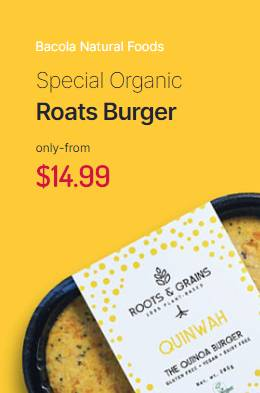
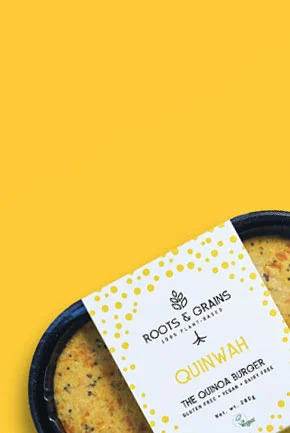
update

diff --git a/src/Pages/Home/index.js b/src/Pages/Home/index.js
@@ -30,11 +30,24 @@ const Home = ()=>{
                 <div className="container">
                     <div className="row">
                         <div className="col-md-3">
-                            <div className="banner">
-                                <img src={banner1} alt="E-commerce Banner" className="cursor w-100 " />
+                            <div className="banner position-relative">
+                                <img src={banner1} alt="E-commerce Banner" className="cursor w-100" />
+                                <div className="bannerOverlayText banner1Text p-3">
+                                    <p className="smallTitle">Bacola Natural Foods</p>
+                                    <h5 className="mainTitle">Special Organic <br /><strong>Roats Burger</strong></h5>
+                                    <p className="subText">only-from</p>
+                                    <p className="priceText">$14.99</p>
+                                </div>
                             </div>
-                            <div className="banner mt-3">
-                                <img src={banner2} alt="E-commerce Banner" className="cursor w-100 " />
+                            <div className="banner mt-3 position-relative">
+                                <img src={banner2} alt="E-commerce Banner" className="cursor w-100" />
+                                <div className="bannerOverlayText p-3">
+                                    <p className="smallTitle">Best Bakery Products</p>
+                                    <h5 className="mainTitle">Freshest Products <br /><strong>every hour.</strong></h5>
+                                    <p className="subText">only-from</p>
+                                    <p className="priceText">$24.99</p>
+                                    <button className="shopNowBtn">Shop Now →</button>
+                                </div>
                             </div>
                         </div>
                         <div className="col-md-9 productRow">

diff --git a/src/App.css b/src/App.css
@@ -406,6 +406,104 @@ nav .navPart2 ul li:hover .submenu{
   color: #212121;
   max-width: 40%;
 }
+.bannerOverlayText {
+  position: absolute;
+  top: 15%;
+  left: 10%;
+  color: #000;
+  z-index: 10;
+  max-width: 80%;
+  background: rgba(255, 255, 255, 0.6); /* Light background to improve readability */
+  border-radius: 8px;
+}
+
+.bannerOverlayText .smallTitle {
+  font-size: 12px;
+  color: #4caf50;
+  font-weight: 500;
+  margin-bottom: 5px;
+}
+
+.bannerOverlayText .mainTitle {
+  font-size: 20px;
+  font-weight: 400;
+  margin-bottom: 8px;
+}
+
+.bannerOverlayText .mainTitle strong {
+  font-weight: 700;
+  color: #212121;
+}
+
+.bannerOverlayText .subText {
+  font-size: 14px;
+  color: #666;
+  margin: 0;
+}
+
+.bannerOverlayText .priceText {
+  font-size: 22px;
+  font-weight: 700;
+  color: #e53935;
+  margin: 5px 0;
+}
+
+.shopNowBtn {
+  background-color: #1E90FF;
+  color: #fff;
+  padding: 6px 16px;
+  border: none;
+  border-radius: 6px;
+  font-size: 14px;
+  font-weight: 500;
+  cursor: pointer;
+}
+
+.shopNowBtn:hover {
+  background-color: #0d6efd;
+}
+.banner1Text {
+  position: absolute;
+  top: 15%;
+  left: 10%;
+  color: #000;
+  z-index: 10;
+  max-width: 80%;
+  background: rgba(255, 204, 0, 0.8); /* Yellowish transparent background */
+  border-radius: 8px;
+  padding: 10px;
+}
+
+.banner1Text .smallTitle {
+  font-size: 12px;
+  color: #fff;
+  font-weight: 500;
+  margin-bottom: 5px;
+}
+
+.banner1Text .mainTitle {
+  font-size: 20px;
+  font-weight: 400;
+  margin-bottom: 8px;
+}
+
+.banner1Text .mainTitle strong {
+  font-weight: 700;
+  color: #212121;
+}
+
+.banner1Text .subText {
+  font-size: 14px;
+  color: #666;
+  margin: 0;
+}
+
+.banner1Text .priceText {
+  font-size: 22px;
+  font-weight: 700;
+  color: #e53935;
+  margin: 5px 0;
+}
 
 .offerText {
   background: #DFF6DD;
